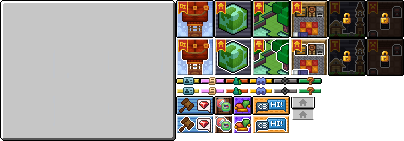
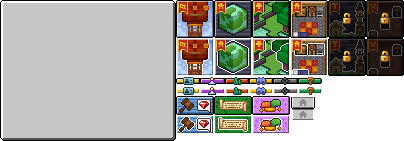
Update Navigator to include streaks, and remove badges + messaging

Changed region(s): [[0.4752, 0.539, 0.7129, 0.9645]]

diff --git a/common/src/main/java/com/mikarific/originaddons/menu/menus/NavigatorMenu.java b/common/src/main/java/com/mikarific/originaddons/menu/menus/NavigatorMenu.java
@@ -84,23 +84,18 @@ public class NavigatorMenu extends CustomMenu {
         }, (b, m, x, y) -> {
             screen.renderTooltip(m, List.of(Text.translatable("originaddons.menus.navigator.auctionhouse.title").setStyle(Style.EMPTY.withColor(TextColor.parse("gold")).withBold(true)), Text.translatable("originaddons.menus.navigator.auctionhouse.description").setStyle(Style.EMPTY.withColor(TextColor.parse("gray")))), (int)x, (int)y);
         }, true).setChildOf(box));
-        //Badges
-        addSelectableElement(new UIButton(MAIN_TEXTURE, 64, 17, 19, 19, 214, 96, 19, MAIN_TEXTURE_WIDTH, MAIN_TEXTURE_HEIGHT, () -> {
-            MenuUtils.sendCommand(player, "/badges");
+        //Streak
+        addSelectableElement(new UIButton(MAIN_TEXTURE, 69, 17, 38, 19, 214, 96, 19, MAIN_TEXTURE_WIDTH, MAIN_TEXTURE_HEIGHT, () -> {
+            MenuUtils.sendCommand(player, "/s");
         }, (b, m, x, y) -> {
-            screen.renderTooltip(m, List.of(Text.translatable("originaddons.menus.navigator.badges.title").setStyle(Style.EMPTY.withColor(TextColor.parse("gold")).withBold(true)), Text.translatable("originaddons.menus.navigator.badges.description").setStyle(Style.EMPTY.withColor(TextColor.parse("gray")))), (int)x, (int)y);
+            screen.renderTooltip(m, List.of(Text.translatable("originaddons.menus.navigator.streak.title").setStyle(Style.EMPTY.withColor(TextColor.parse("gold")).withBold(true)), Text.translatable("originaddons.menus.navigator.streak.description").setStyle(Style.EMPTY.withColor(TextColor.parse("gray")))), (int)x, (int)y);
         }, true).setChildOf(box));
         //Gestures
-        addSelectableElement( new UIButton(MAIN_TEXTURE, 93, 17, 19, 19, 233, 96, 19, MAIN_TEXTURE_WIDTH, MAIN_TEXTURE_HEIGHT, () -> {
+        new UIButton(MAIN_TEXTURE, 123, 17, 38, 19, 252, 96, 19, MAIN_TEXTURE_WIDTH, MAIN_TEXTURE_HEIGHT, () -> {
             MenuUtils.sendCommand(player, "/g");
         }, (b, m, x, y) -> {
             screen.renderTooltip(m, List.of(Text.translatable("originaddons.menus.navigator.gestures.title").setStyle(Style.EMPTY.withColor(TextColor.parse("gold")).withBold(true)), Text.translatable("originaddons.menus.navigator.gestures.description").setStyle(Style.EMPTY.withColor(TextColor.parse("gray")))), (int)x, (int)y);
-        }, true).setChildOf(box));
-        //Messaging
-        new UIButton(MAIN_TEXTURE, 123, 17, 38, 19, 252, 96, 19, MAIN_TEXTURE_WIDTH, MAIN_TEXTURE_HEIGHT, () -> {
-        }, (b, m, x, y) -> {
-            screen.renderTooltip(m, List.of(Text.translatable("originaddons.menus.navigator.messaging.title").setStyle(Style.EMPTY.withColor(TextColor.parse("gold")).withBold(true)), Text.translatable("originaddons.menus.navigator.messaging.description").setStyle(Style.EMPTY.withColor(TextColor.parse("gray")))), (int)x, (int)y);
-        }, false).setChildOf(box);
+        }, true).setChildOf(box);
 
         //Profile
         new UIButton(MAIN_TEXTURE, 15, 3, 24, 10, 176, 76, 10, MAIN_TEXTURE_WIDTH, MAIN_TEXTURE_HEIGHT, () -> {
